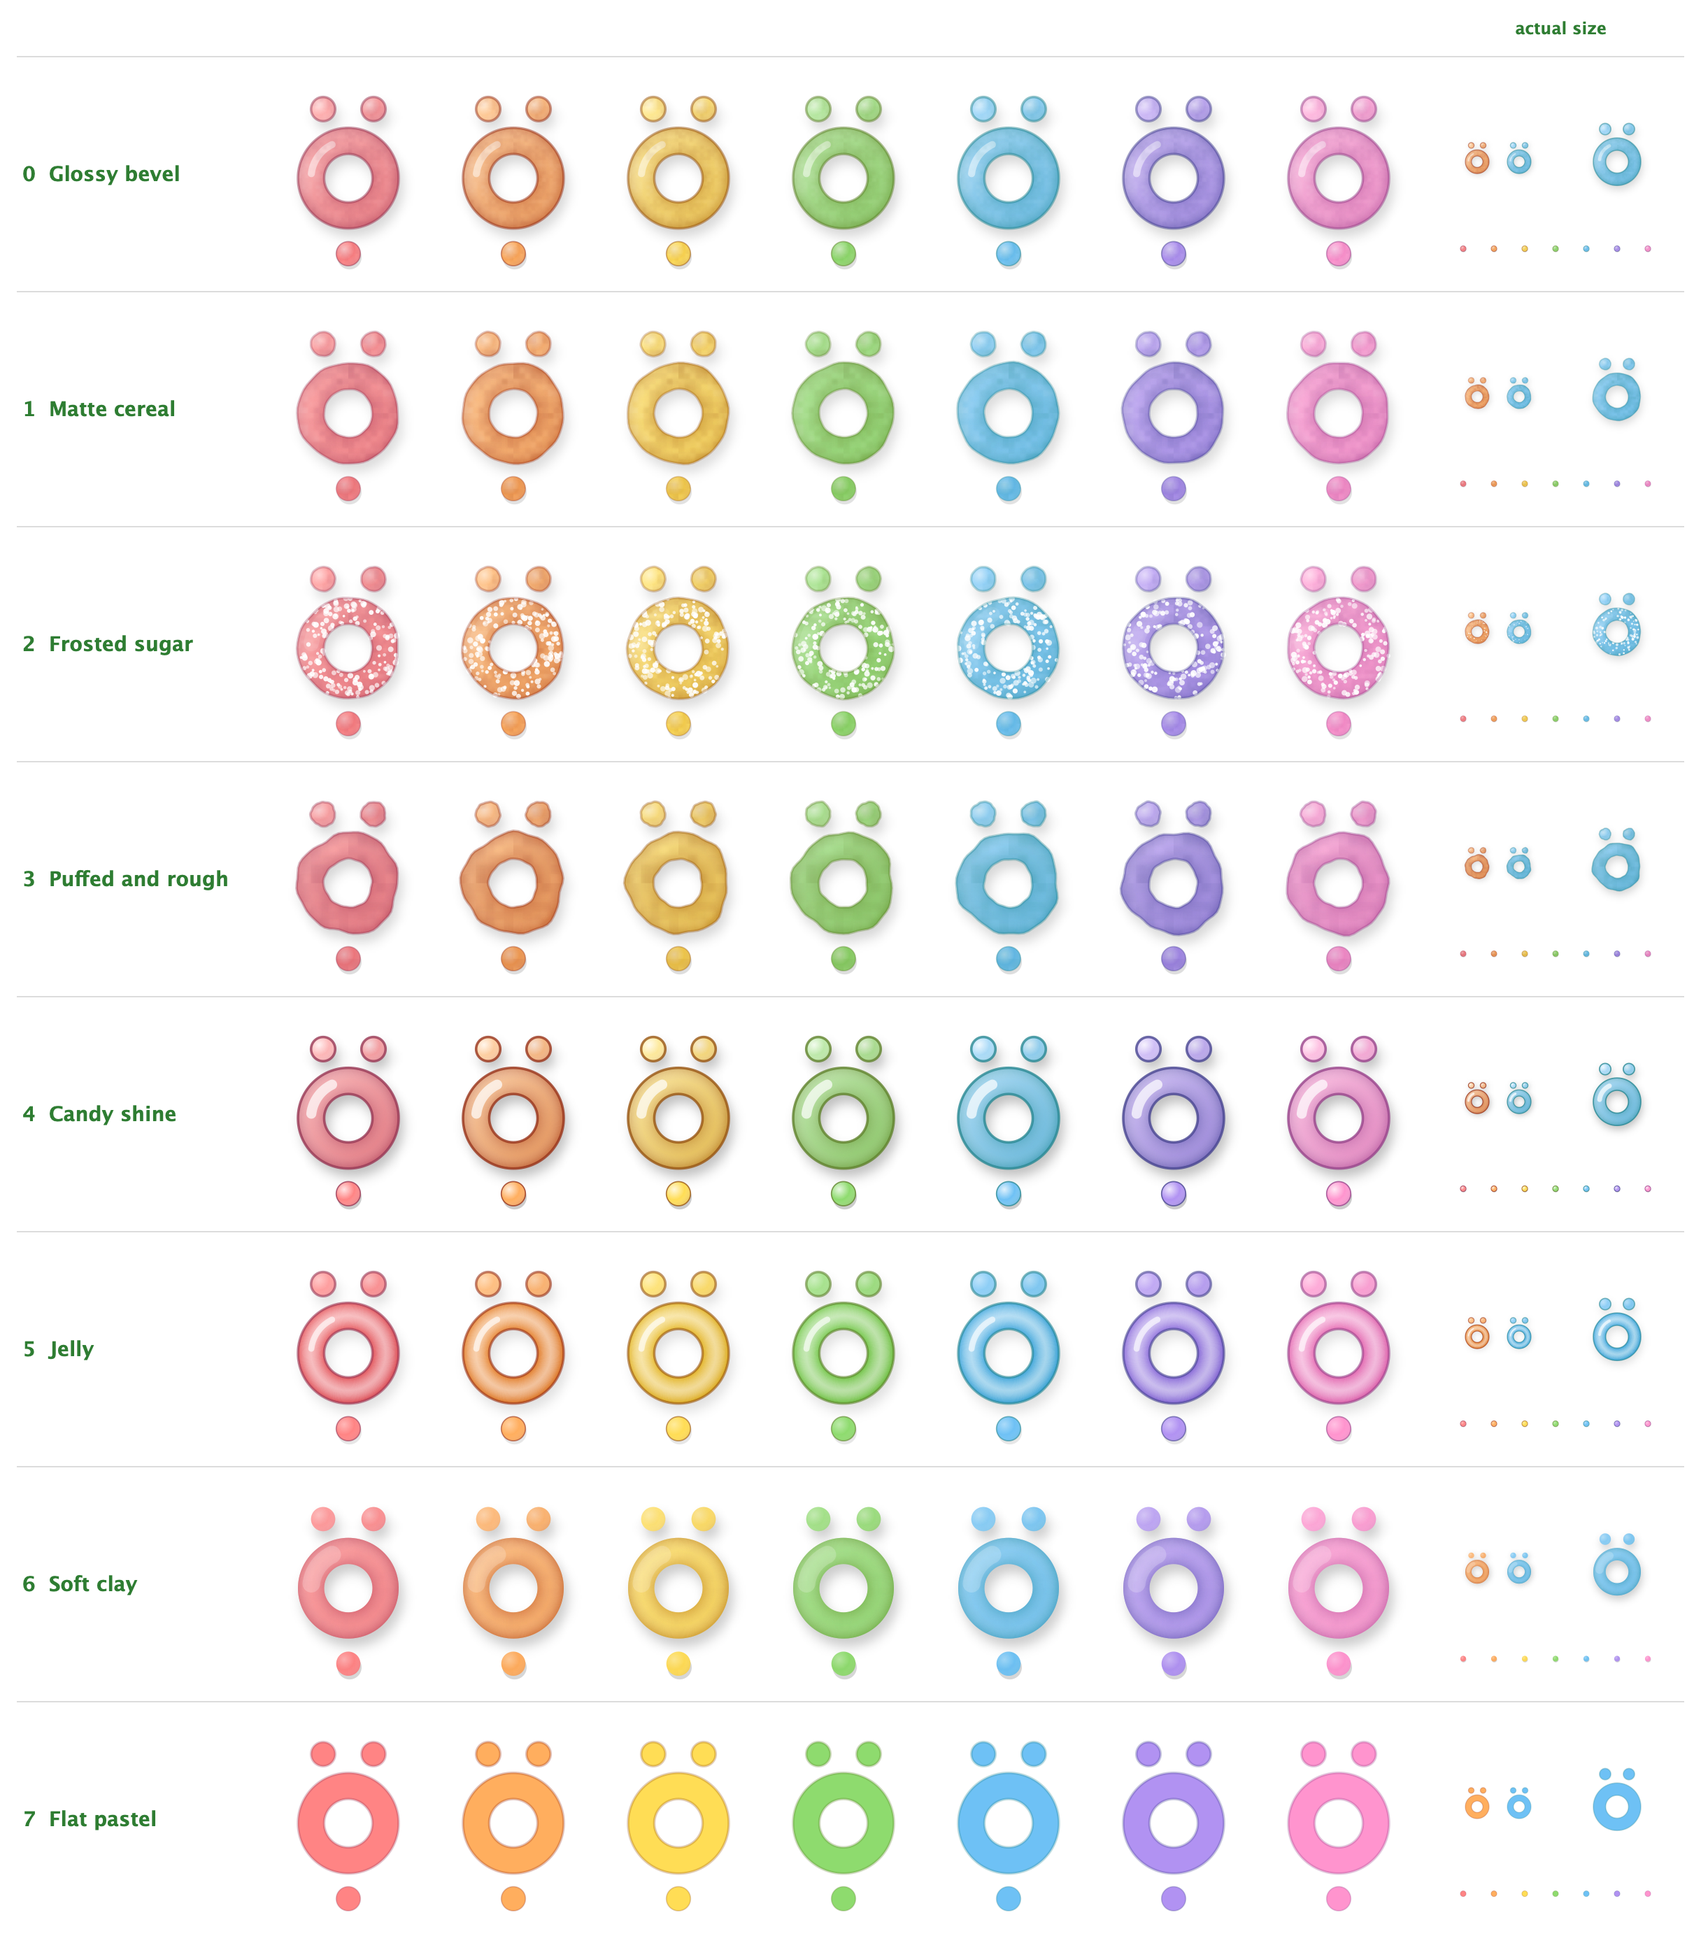
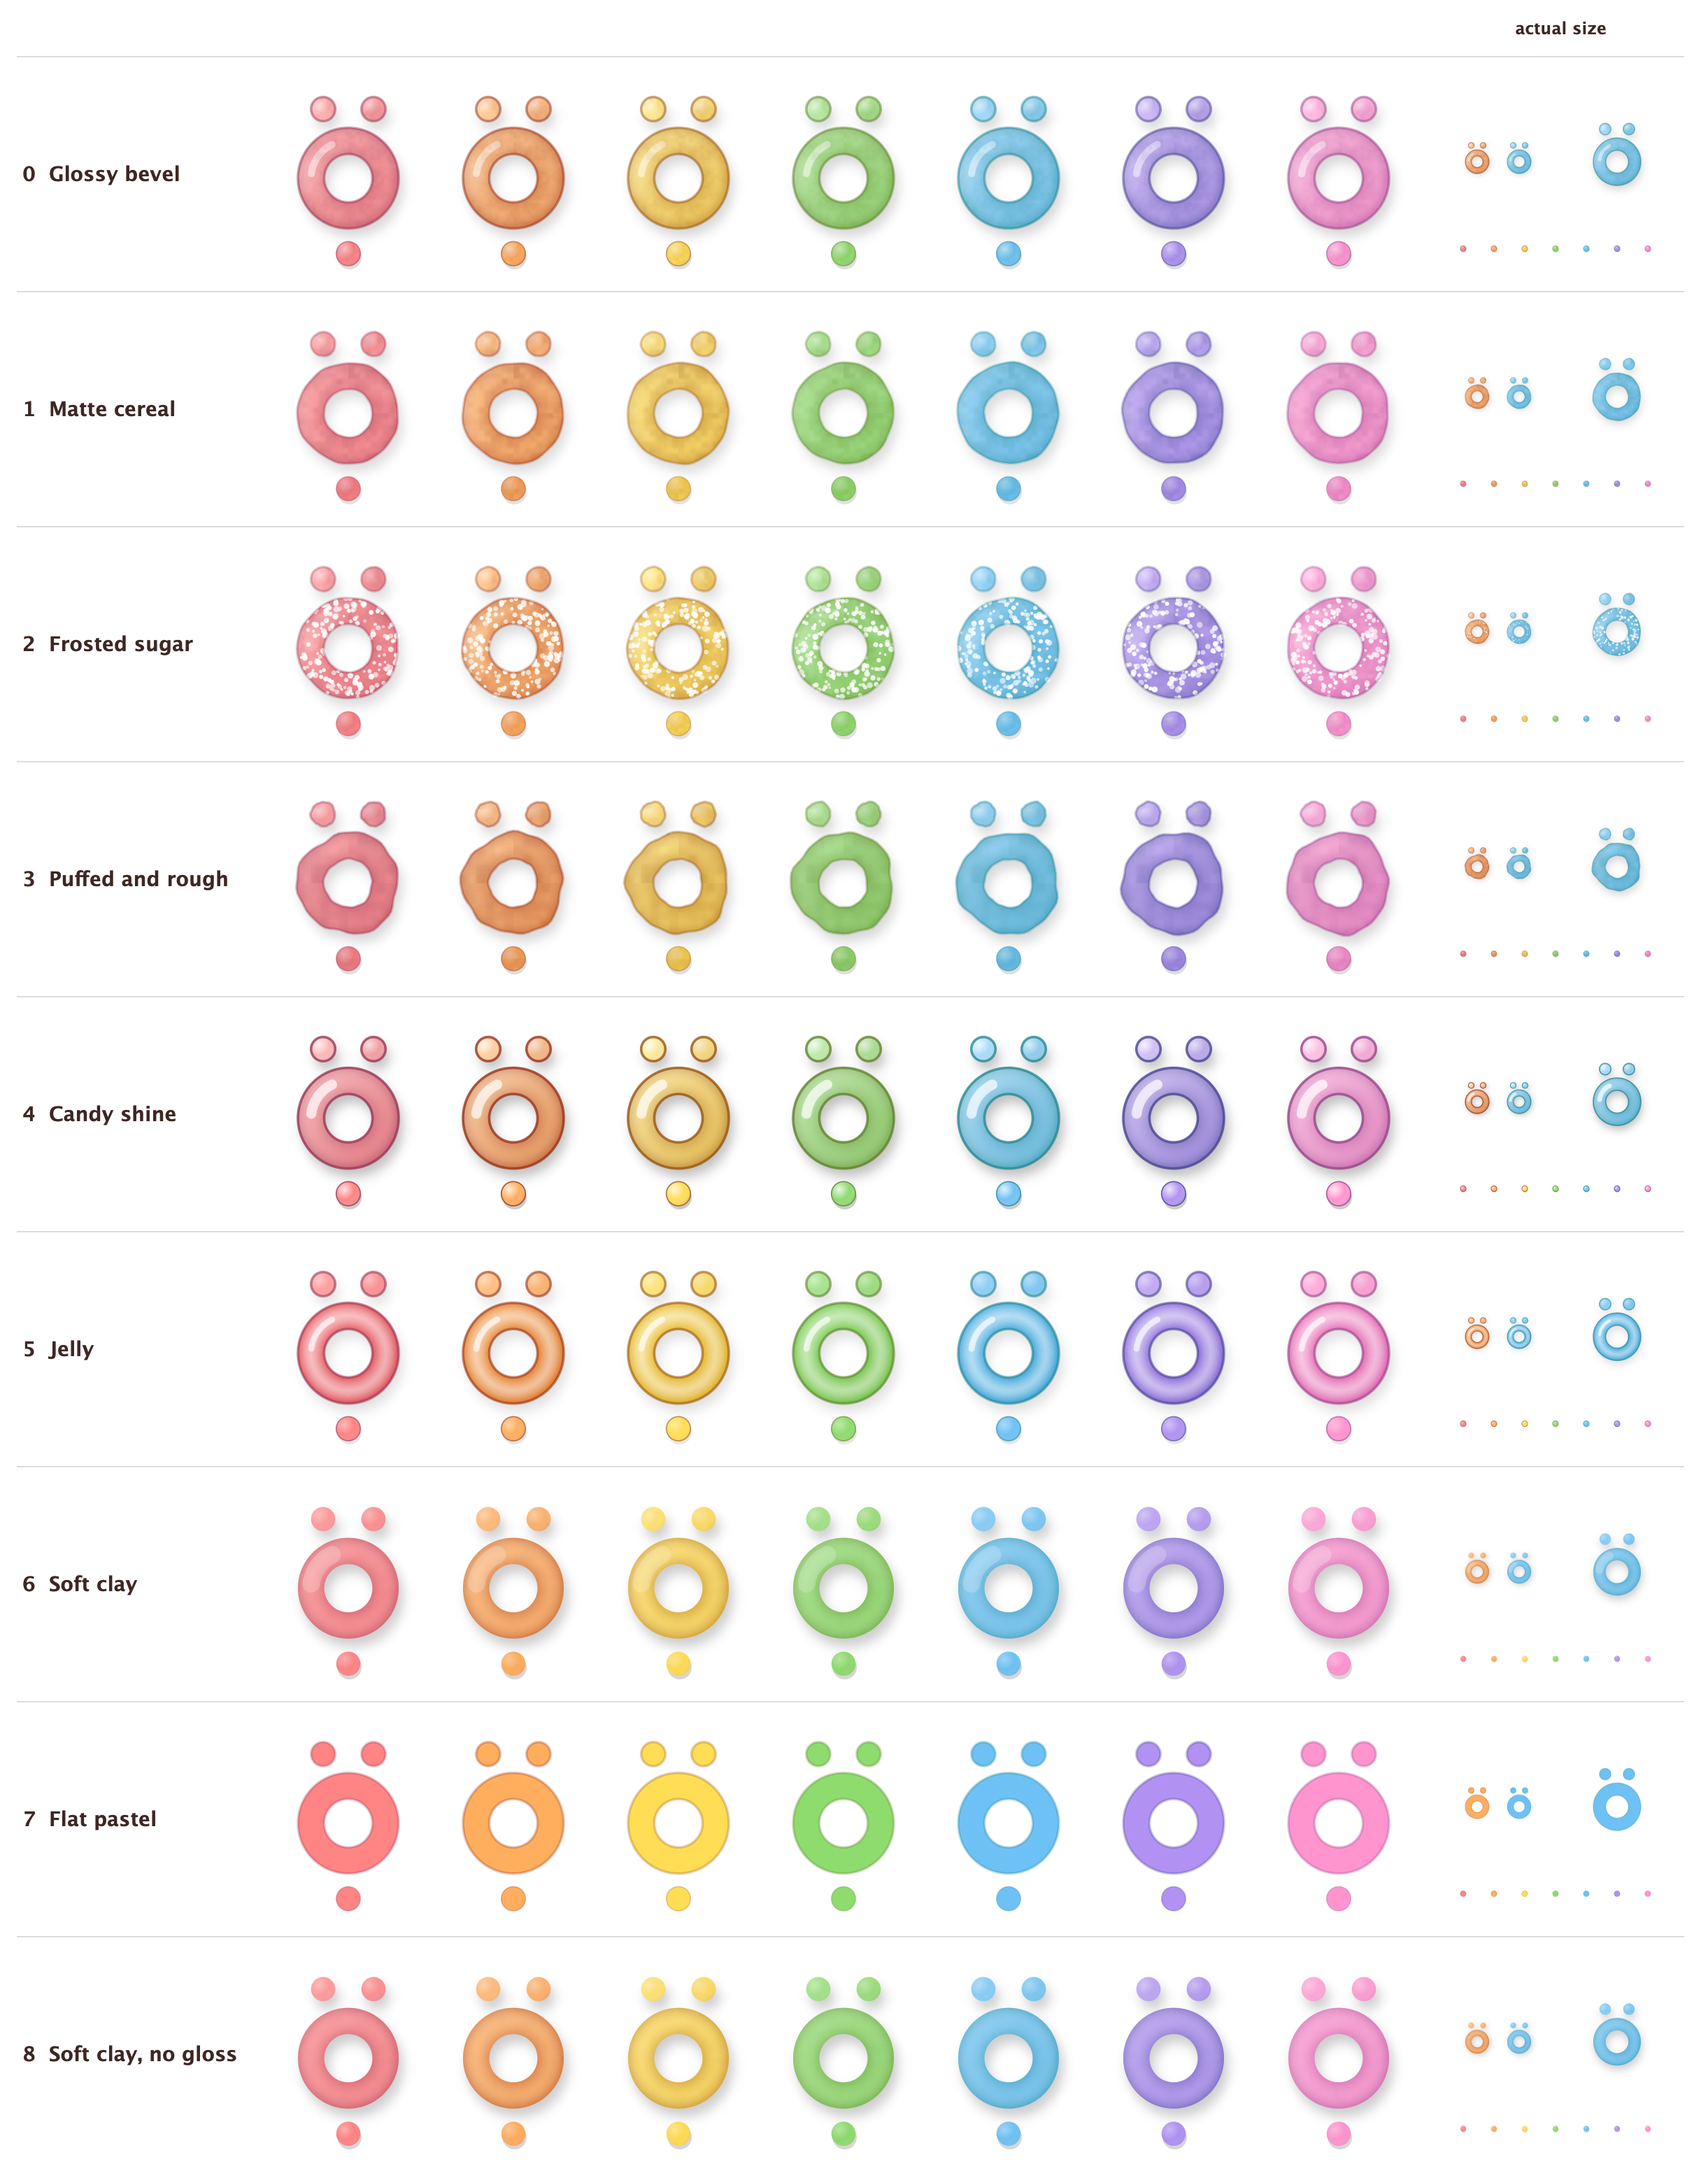
Soft clay marks without gloss, quicker ripples, room at the edges (v0.8.5)
- The marks use a new style, "Soft clay, no gloss": soft clay's deep tube
  shading and gentle light without the specular streak. It is style 8 on
  docs/ring-styles.png, next to the original for comparison.
- Ripples settle in half the time: each push swells and returns in 0.22 s
  and spreads faster (0.5 pad/s), so a stopped drag is still within about
  half a second. The push is doubled to keep a steady drag's lean the
  same.
- The breaks sit drawn in by 6% of the pad on every side (jm::padSite,
  shared with the host check), so the outermost Ös and crumbs, umlauts
  included, sit inside the edges. The Voronoi cells are rebuilt around the
  new sites and still reach the edges, and the sound follows them: the
  largest circle now covers 79 breaks.

diff --git a/src/engine/PadGeometry.h b/src/engine/PadGeometry.h
@@ -14,11 +14,22 @@ namespace jm {
 // (radius sqrt(0.5 / pi), about 15.5 times), where it plays about 50 to 60
 // breaks at once.
 constexpr double kPuckRadius = 12.375 / 480.0;
+
 constexpr double kHalfPadRadius = 0.3989422804;  // sqrt(0.5 / pi)
 constexpr float  kCircleSizeMin = 0.25f, kCircleSizeMax = (float) (kHalfPadRadius / kPuckRadius);
 inline double circleRadius(float size) { return kPuckRadius * size; }
 
 struct Pt { double x, y; };
+
+// The similarity layout (breaks/layout.json) spans [0, 1]^2; on the pad the
+// breaks sit drawn in by kSiteInset on every side, so the marks of the
+// outermost ones have room inside the edges. Their cells still reach the
+// edges.
+constexpr double kSiteInset = 0.06;
+inline Pt padSite(Pt layout)
+{
+    return { kSiteInset + (1.0 - 2.0 * kSiteInset) * layout.x, kSiteInset + (1.0 - 2.0 * kSiteInset) * layout.y };
+}
 using Poly = std::vector<Pt>; // convex, counter-clockwise
 
 // Keep the part of `poly` on a's side of the perpendicular bisector of a-b.

diff --git a/src/Cereal.cpp b/src/Cereal.cpp
@@ -19,9 +19,10 @@ const RingStyle kRingStyles[] = {
     { "Jelly",                      0.5f, 0.7f, 0.9f, 0.12f, 0.0f, 1.0f, 0.0f, 0.0f,  1.0f, 0.6f, 0.12f },
     { "Soft clay",                  1.0f, 0.6f, 0.3f, 0.35f, 0.15f, 2.0f, 0.0f, 0.0f, 0.0f, 0.0f, 0.2f },
     { "Flat pastel",                0.0f, 0.0f, 0.0f, 0.0f,  0.0f, 1.0f, 0.0f, 0.0f,  0.0f, 0.3f, 0.0f },
+    { "Soft clay, no gloss",        1.0f, 0.6f, 0.0f, 0.0f,  0.15f, 2.0f, 0.0f, 0.0f, 0.0f, 0.0f, 0.2f },
 };
 const int kNumRingStyles = (int) std::size(kRingStyles);
-const RingStyle& kRingStyle = kRingStyles[1]; // Matte cereal
+const RingStyle& kRingStyle = kRingStyles[8]; // Soft clay, no gloss
 
 Grains::Grains()
 {

diff --git a/src/PluginEditor.cpp b/src/PluginEditor.cpp
@@ -140,8 +140,8 @@ void XYPad::paint(juce::Graphics& g)
 // steady drag keeps the neighbours leaning forward; stop and they settle.
 // Pad units and seconds: kRipplePush is how far a cell moves per unit the
 // circle moved, kRippleMax the most any cell moves.
-constexpr float kRippleSpeed = 0.3f, kRippleReach = 0.12f, kRippleSwell = 0.45f,
-                kRipplePush = 0.07f, kRippleMax = 0.014f;
+constexpr float kRippleSpeed = 0.5f, kRippleReach = 0.12f, kRippleSwell = 0.22f,
+                kRipplePush = 0.14f, kRippleMax = 0.014f;
 
 void XYPad::addDrop(juce::Point<float> push)
 {

diff --git a/src/LoopLibrary.cpp b/src/LoopLibrary.cpp
@@ -67,7 +67,8 @@ LoopLibrary::LoopLibrary()
         {
             Entry e;
             e.name = p["file"].toString();
-            e.pos  = { (float) (double) p["x"], (float) (double) p["y"] };
+            const auto at = jm::padSite({ (double) p["x"], (double) p["y"] });
+            e.pos  = { (float) at.x, (float) at.y };
             e.colour = colours.count(e.name) ? colours[e.name] : 0;
             const char* data = resourceNamed(e.name, size);
             if (data == nullptr) continue;

diff --git a/src/LoopLibrary.h b/src/LoopLibrary.h
@@ -14,7 +14,7 @@ public:
 
     struct Entry {
         juce::String name;                 // "042.wav"
-        juce::Point<float> pos;            // in [0, 1]^2, y up
+        juce::Point<float> pos;            // on the pad, [0, 1]^2, y up (jm::padSite of the layout)
         juce::AudioBuffer<float> audio;    // stereo, levelled
         double rate = 44100.0;             // the file's sample rate
         std::vector<float> meter;          // level through the loop, 0..1 of its peak

diff --git a/tests/host_check.cpp b/tests/host_check.cpp
@@ -59,7 +59,7 @@ int main(int argc, char** argv)
     const juce::File breaks(juce::String::fromUTF8(argv[2]));
     const auto layout = juce::JSON::parse(breaks.getChildFile("layout.json"));
     std::vector<jm::Pt> sites;
-    for (const auto& p : *layout.getArray()) sites.push_back({ (double) p["x"], (double) p["y"] });
+    for (const auto& p : *layout.getArray()) sites.push_back(jm::padSite({ (double) p["x"], (double) p["y"] }));
     jm::PadMap pad;
     pad.setSites(sites);
 

diff --git a/docs/HANDOFF.md b/docs/HANDOFF.md
@@ -1,6 +1,7 @@
 # LÖÖP BRÖTHER — handoff
 
-Updated: 2026-10-19 — v0.8.4, the Command mute acts at once.
+Updated: 2026-10-19 — v0.8.5, soft clay marks without gloss, quicker
+ripples, room at the pad's edges.
 
 ## Where things stand
 
@@ -26,12 +27,13 @@ bundle ID are unchanged, so saved sessions find it.
   standalone's audio device. The WAVs on disk are unchanged.
 - **Pad** (the UI, white, over a small white status bar with the
   dark brown LÖÖP BRÖTHER logo): every break sits at its
-  similarity-layout position and owns the nearest patch of pad (drawn as
-  Voronoi cells). The selection circle is three continuous automatable
+  similarity-layout position, drawn in by 6% of the pad on every side
+  (`jm::padSite`) so the outermost marks have room, and owns the nearest
+  patch of pad (drawn as Voronoi cells, reaching the edges). The selection circle is three continuous automatable
   parameters: `x`, `y` and `size` (Circle Size, 0.25x of `jm::kPuckRadius`
   = 12.375/480 of the pad up to 15.47x, the circle that covers half the pad
   from its middle; skewed so 1x sits mid-range). Every break whose cell the
-  circle covers plays: the largest circle in the middle plays 65 at once
+  circle covers plays: the largest circle in the middle plays 79 at once
   (3.3% of a core, against 0.2% for a small circle). Its share is the
   fraction of the circle's area in its cell (`src/engine/PadGeometry.h`:
   exact circle/polygon intersection, shares add up to exactly 1; the mix
@@ -99,10 +101,10 @@ bundle ID are unchanged, so saved sessions find it.
   Ö drawn as a Froot Loop (a thick ring, 8.5 px radius at 480, with the
   umlaut dots over it); every other cell carries a crumb, a round piece
   the size of one of those dots. The look is a `jmui::RingStyle`
-  (`src/Cereal.{h,cpp}`); `kRingStyles` holds eight to try
+  (`src/Cereal.{h,cpp}`); `kRingStyles` holds nine to try
   (`docs/ring-styles.png`, from `JM_STYLE_SHEET`), `kRingStyle` is the one
-  in use: 1, "Matte cereal" (tube-shaded and lit from the top left, no
-  gloss, a strong soft grain, a slightly uneven edge). Shadows take a darker tone of the colour turned
+  in use: 8, "Soft clay, no gloss" (deeply tube-shaded, softly lit from
+  the top left, a faint coarse grain, a soft shadow, no specular streak). Shadows take a darker tone of the colour turned
   slightly towards red (`shadowOf`), so yellow shades to gold rather than
   olive; the grain is tileable value noise in octaves, so a coarse grain
   stays soft. The marks are pre-rendered (`jmui::CerealSprites`: per
@@ -116,8 +118,8 @@ bundle ID are unchanged, so saved sessions find it.
   Dragging pushes the nearby cells the way the circle goes, as through
   liquid: every 60 ms or so the circle leaves a push as long as it moved,
   and each cell feels it once, as a single sin^2 swell out and back to
-  rest (0.45 s, never below zero, so nothing swings back and forth),
-  arriving later the further the cell is (0.3 pad/s) and fading with
+  rest (0.22 s, never below zero, so nothing swings back and forth),
+  arriving later the further the cell is (0.5 pad/s) and fading with
   distance (Gaussian, 0.12 of the pad). A steady drag keeps the
   neighbours leaning forward; stop and they settle and stay still. A cell
   moves at most 0.014 of the pad (7 px at 480); a slow drag moves its
